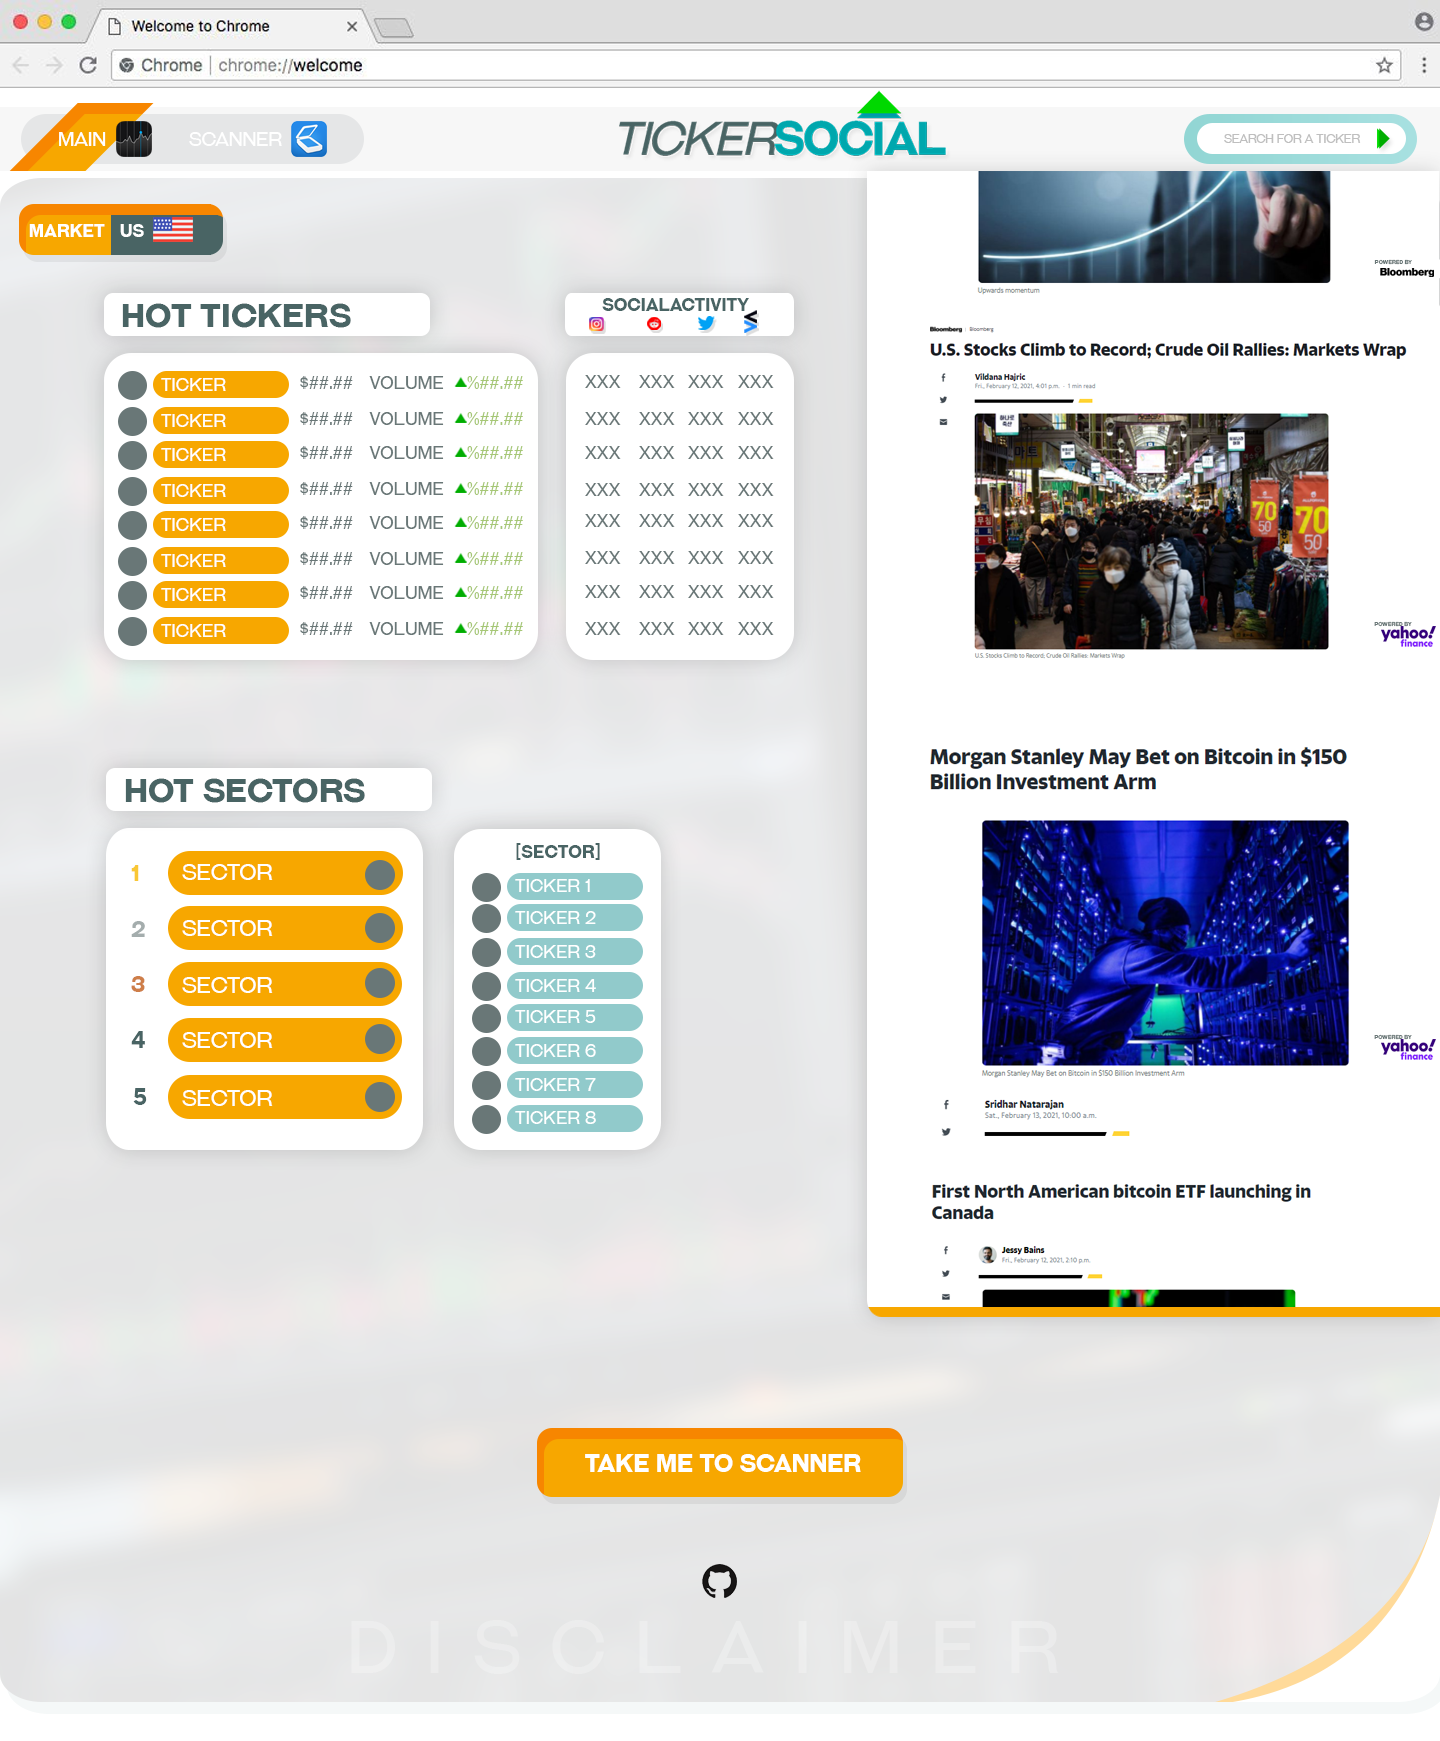
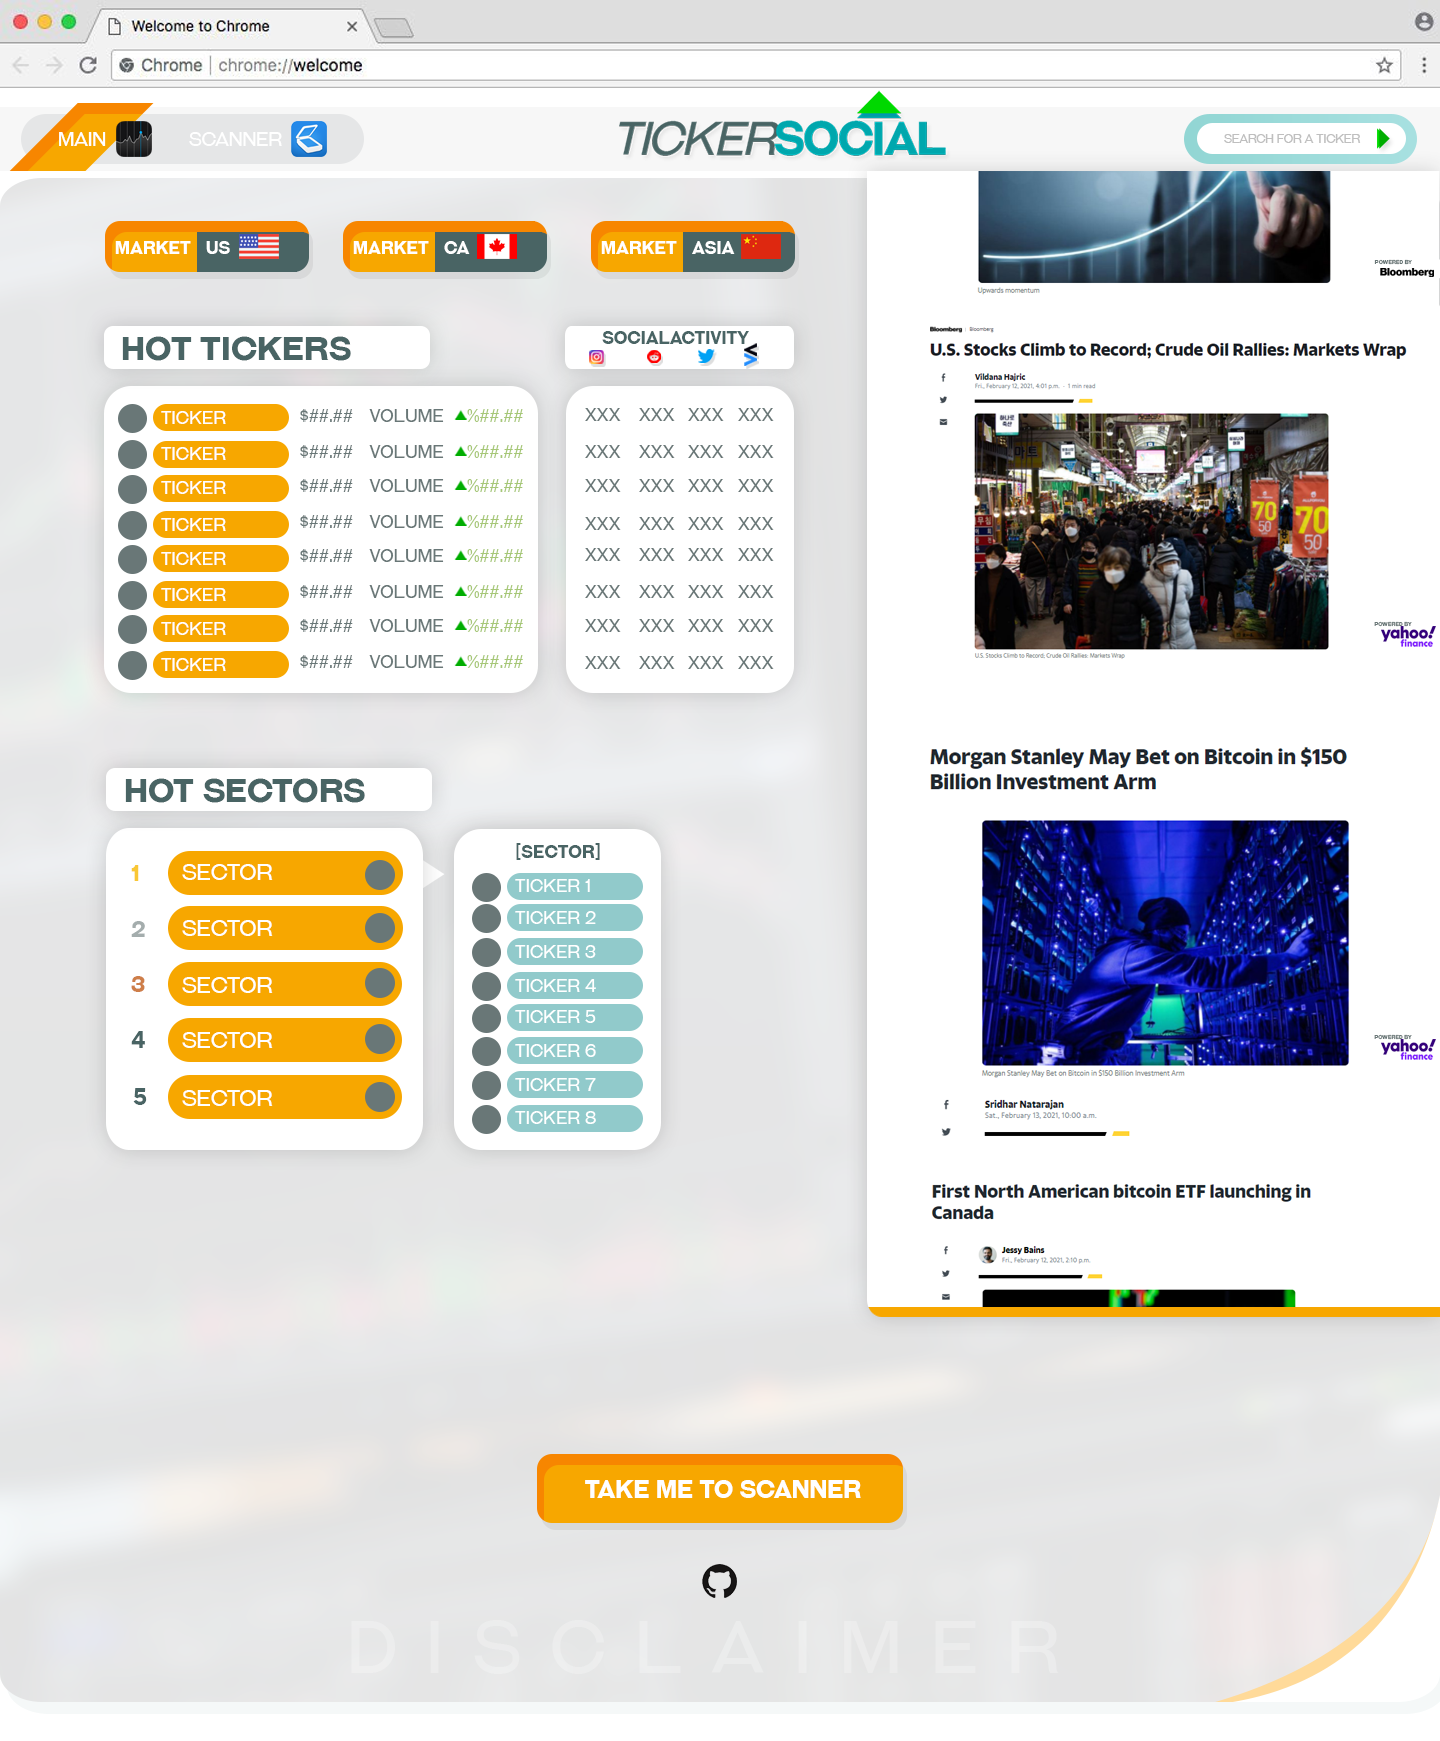
Re-edit of modal, main pages

Changed region(s): [[0.0, 0.093, 0.5625, 0.4032], [0.375, 0.8064, 0.625, 0.8995]]

diff --git a/src/main/java/com/tickersocial/tickersocial/service/TickerService.java b/src/main/java/com/tickersocial/tickersocial/service/TickerService.java
@@ -1,0 +1,48 @@
+package com.tickersocial.tickersocial.service;
+
+import com.fasterxml.jackson.databind.JsonSerializable;
+import com.fasterxml.jackson.databind.JsonSerializer;
+import com.fasterxml.jackson.databind.annotation.JsonSerialize;
+import com.mashape.unirest.http.HttpResponse;
+import com.mashape.unirest.http.JsonNode;
+import com.mashape.unirest.http.Unirest;
+import com.mashape.unirest.http.exceptions.UnirestException;
+import com.tickersocial.tickersocial.Model.Activity;
+import com.tickersocial.tickersocial.Model.HotTickersComponent;
+import org.json.JSONObject;
+import org.springframework.http.HttpStatus;
+import org.springframework.http.ResponseEntity;
+import org.springframework.stereotype.Service;
+
+import java.util.ArrayList;
+import java.util.Arrays;
+import java.util.List;
+
+@Service
+public class TickerService{
+
+    public ResponseEntity<Activity> getTopTickers() {
+//        if (!isValidInterval(interval)){
+//            return new ResponseEntity<>(HttpStatus.BAD_REQUEST);
+//        }
+
+
+//        HttpResponse<JsonNode> jsonResponse = Unirest.get("https://api.stocktwits.com/api/2/trending/symbols.json")
+//                .routeParam("limit", Integer.toString(num))
+//                .asJson();
+//
+//        JSONObject json = new JSONObject(jsonResponse);
+//
+//        jsonResponse.getBody().
+        Activity test = new Activity();
+        test.setTwitterHashtags(2);
+        test.setStockTwitsMentions(2);
+        return new ResponseEntity<>(test, HttpStatus.OK);
+    }
+
+    private Boolean isValidInterval(String interval){
+        List<String> validIntervals = new ArrayList<>(Arrays.asList("h", "d", "w", "m"));
+        return validIntervals.contains(interval);
+    }
+
+}

diff --git a/src/main/java/com/tickersocial/tickersocial/Model/Ticker.java b/src/main/java/com/tickersocial/tickersocial/Model/Ticker.java
@@ -1,0 +1,39 @@
+package com.tickersocial.tickersocial.Model;
+
+import com.fasterxml.jackson.annotation.JsonInclude;
+import lombok.AllArgsConstructor;
+import lombok.Data;
+import lombok.NoArgsConstructor;
+
+@NoArgsConstructor
+@AllArgsConstructor()
+@JsonInclude(JsonInclude.Include.NON_NULL)
+public class Ticker {
+    private String currentPrice;
+    private String currentVolume;
+    private Activity activity;
+
+    public String getCurrentPrice() {
+        return currentPrice;
+    }
+
+    public void setCurrentPrice(String currentPrice) {
+        this.currentPrice = currentPrice;
+    }
+
+    public String getCurrentVolume() {
+        return currentVolume;
+    }
+
+    public void setCurrentVolume(String currentVolume) {
+        this.currentVolume = currentVolume;
+    }
+
+    public Activity getActivity() {
+        return activity;
+    }
+
+    public void setActivity(Activity activity) {
+        this.activity = activity;
+    }
+}

diff --git a/src/main/java/com/tickersocial/tickersocial/controller/TickerController.java b/src/main/java/com/tickersocial/tickersocial/controller/TickerController.java
@@ -1,0 +1,26 @@
+package com.tickersocial.tickersocial.controller;
+
+import com.tickersocial.tickersocial.Model.Activity;
+import com.tickersocial.tickersocial.Model.HotTickersComponent;
+import com.tickersocial.tickersocial.service.TickerService;
+import lombok.AllArgsConstructor;
+import lombok.extern.slf4j.Slf4j;
+import org.springframework.http.HttpStatus;
+import org.springframework.http.ResponseEntity;
+import org.springframework.web.bind.annotation.*;
+
+@RestController
+//@RequestMapping("/api/ticker")
+@Slf4j
+@AllArgsConstructor
+public class TickerController {
+    private TickerService tickerService;
+
+    // Get top tickers -> gets top trending ticker on twitter, given some time interval
+    // ie: want hourly stats -> interval="hr" + "top" tickers (ie: top 10 -> num=10)
+    @GetMapping("/toptickers")
+    public ResponseEntity<Activity> getTopTickers(){
+        return tickerService.getTopTickers();
+    }
+
+}

diff --git a/src/main/java/com/tickersocial/tickersocial/Model/Activity.java b/src/main/java/com/tickersocial/tickersocial/Model/Activity.java
@@ -1,0 +1,34 @@
+package com.tickersocial.tickersocial.Model;
+
+import com.fasterxml.jackson.annotation.JsonInclude;
+import lombok.AllArgsConstructor;
+import lombok.Data;
+import lombok.NoArgsConstructor;
+
+@NoArgsConstructor
+@AllArgsConstructor()
+@JsonInclude(JsonInclude.Include.NON_NULL)
+public class Activity {
+    private int stockTwitsMentions;
+    private int twitterHashtags;
+
+    public int getStockTwitsMentions() {
+        return stockTwitsMentions;
+    }
+
+    public void setStockTwitsMentions(int stockTwitsMentions) {
+        this.stockTwitsMentions = stockTwitsMentions;
+    }
+
+    public int getTwitterHashtags() {
+        return twitterHashtags;
+    }
+
+    public void setTwitterHashtags(int twitterHashtags) {
+        this.twitterHashtags = twitterHashtags;
+    }
+
+
+
+
+}

diff --git a/src/main/java/com/tickersocial/tickersocial/controller/ErrorHandlerController.java b/src/main/java/com/tickersocial/tickersocial/controller/ErrorHandlerController.java
@@ -1,0 +1,17 @@
+package com.tickersocial.tickersocial.controller;
+
+import org.springframework.boot.web.servlet.error.ErrorController;
+import org.springframework.web.bind.annotation.RequestMapping;
+import org.springframework.web.bind.annotation.ResponseBody;
+import org.springframework.web.bind.annotation.RestController;
+
+@RestController
+public class ErrorHandlerController implements ErrorController{
+
+    @Override
+    @RequestMapping("/error")
+    @ResponseBody
+    public String getErrorPath() {
+        return "<center><h1>Something went wrong</h1></center>";
+    }
+}

diff --git a/src/main/java/com/tickersocial/tickersocial/Model/HotTickersComponent.java b/src/main/java/com/tickersocial/tickersocial/Model/HotTickersComponent.java
@@ -1,0 +1,22 @@
+package com.tickersocial.tickersocial.Model;
+
+import com.fasterxml.jackson.annotation.JsonInclude;
+import lombok.AllArgsConstructor;
+import lombok.Data;
+import lombok.NoArgsConstructor;
+import java.util.List;
+
+@NoArgsConstructor
+@AllArgsConstructor()
+@JsonInclude(JsonInclude.Include.NON_NULL)
+public class HotTickersComponent {
+    private List<Ticker> Tickers;
+
+    public List<Ticker> getTickers() {
+        return Tickers;
+    }
+
+    public void setTickers(List<Ticker> tickers) {
+        Tickers = tickers;
+    }
+}
